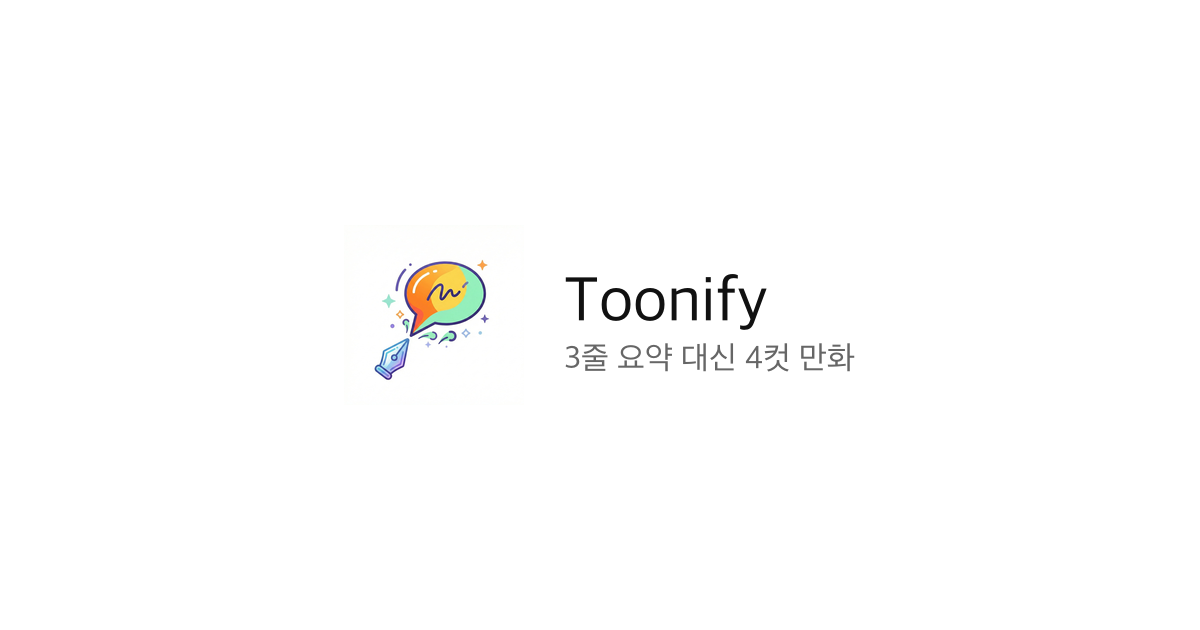
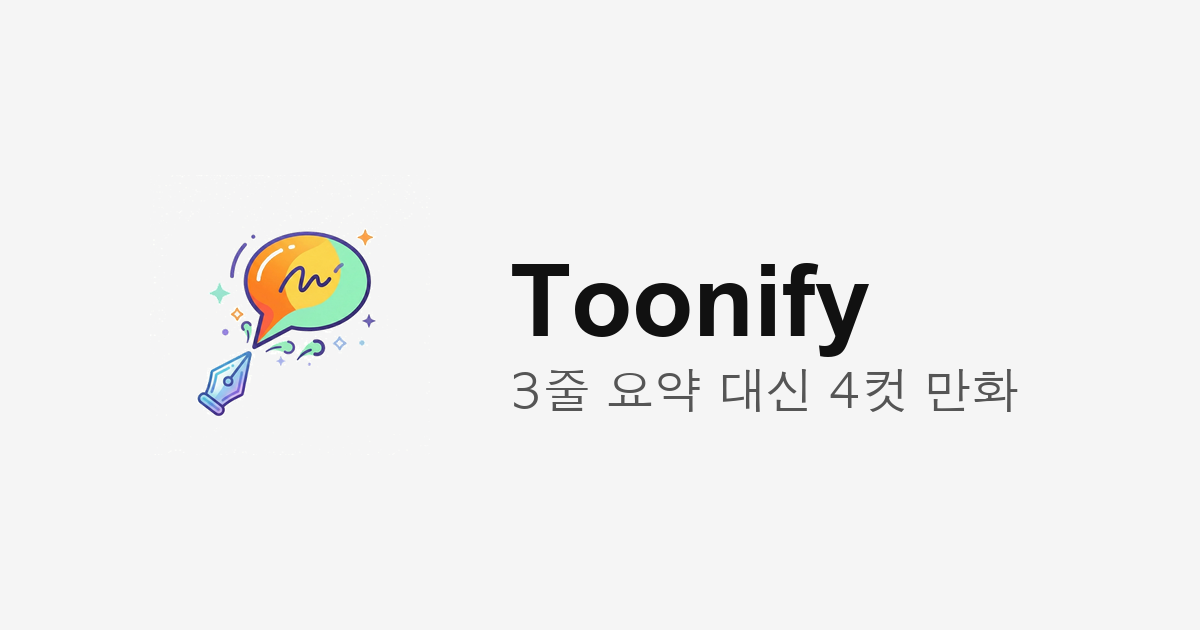
fix: 이미지수정, 문구수정

Changed region(s): [[0.1542, 0.3619, 0.8633, 0.6635]]

diff --git a/app/templates/index.html b/app/templates/index.html
@@ -8,23 +8,23 @@
     <meta name="apple-mobile-web-app-status-bar-style" content="black-translucent">
     <meta name="apple-mobile-web-app-title" content="toonify">
     <meta name="theme-color" content="#000000">
-    <meta name="description" content="텍스트를 4컷 만화로 변환하는 서비스. 카톡 대화, 회의록, 에러 로그 뭐든 넣어보세요!">
+    <meta name="description" content="4컷 만화 서비스. 카톡 대화, 회의록, 공지사항 뭐든 넣어보세요!">
 
     <!-- Open Graph (카카오톡, 페이스북 등 미리보기) -->
     <meta property="og:type" content="website">
     <meta property="og:title" content="Toonify - 3줄 요약 대신 4컷 만화">
-    <meta property="og:description" content="텍스트를 4컷 만화로 변환하는 서비스. 뭐든 넣어보세요!">
-    <meta property="og:image" content="https://toonify.kr/static/images/og-image.png">
+    <meta property="og:description" content="4컷 만화 서비스. 카톡 대화, 회의록, 공지사항 뭐든 넣어보세요!">
+    <meta property="og:image" content="https://toonify.kr/static/images/og-image.png?v=2">
     <meta property="og:url" content="https://toonify.kr">
 
     <!-- Twitter Card -->
     <meta name="twitter:card" content="summary_large_image">
     <meta name="twitter:title" content="Toonify - 3줄 요약 대신 4컷 만화">
-    <meta name="twitter:description" content="텍스트를 4컷 만화로 변환하는 서비스. 뭐든 넣어보세요!">
-    <meta name="twitter:image" content="https://toonify.kr/static/images/og-image.png">
+    <meta name="twitter:description" content="4컷 만화 서비스. 카톡 대화, 회의록, 공지사항 뭐든 넣어보세요!">
+    <meta name="twitter:image" content="https://toonify.kr/static/images/og-image.png?v=2">
 
     <title>Toonify - 3줄 요약 대신 4컷 만화</title>
-    <link rel="stylesheet" href="static/css/style.css">
+    <link rel="stylesheet" href="static/css/style.css?v=2">
     <link rel="icon" type="image/png" href="/static/images/favicon-32.png">
     <link rel="apple-touch-icon" href="/static/images/apple-touch-icon.png">
     <style>
@@ -56,7 +56,7 @@
                     id="meeting-input"
                     class="meeting-input"
                     contenteditable="true"
-                    data-placeholder="회의록, 강의노트, 카톡 대화, 에러 로그... 무엇이든 만화로 만들어 드립니다 🎨"
+                    data-placeholder="회의록, 강의노트, 카톡 대화, 공지사항, 에러 로그... 무엇이든 만화로 만들어 드립니다 🎨"
                 ></div>
                 <button type="submit">만화 생성</button>
             </form>
@@ -142,6 +142,6 @@
         </div>
     </div>
 
-    <script src="static/js/app.js"></script>
+    <script src="static/js/app.js?v=2"></script>
 </body>
 </html>

diff --git a/app/templates/result.html b/app/templates/result.html
@@ -14,17 +14,17 @@
     <meta property="og:type" content="website">
     <meta property="og:title" content="Toonify - 4컷 만화 완성!">
     <meta property="og:description" content="이 만화 어때요? Toonify에서 만들었어요!">
-    <meta property="og:image" content="https://toonify.kr/static/images/og-image.png">
+    <meta property="og:image" content="https://toonify.kr/static/images/og-image.png?v=2">
     <meta property="og:url" content="https://toonify.kr">
 
     <!-- Twitter Card -->
     <meta name="twitter:card" content="summary_large_image">
     <meta name="twitter:title" content="Toonify - 4컷 만화 완성!">
     <meta name="twitter:description" content="이 만화 어때요? Toonify에서 만들었어요!">
-    <meta name="twitter:image" content="https://toonify.kr/static/images/og-image.png">
+    <meta name="twitter:image" content="https://toonify.kr/static/images/og-image.png?v=2">
 
     <title>Toonify - 3줄 요약 대신 4컷 만화</title>
-    <link rel="stylesheet" href="/static/css/style.css">
+    <link rel="stylesheet" href="/static/css/style.css?v=2">
     <link rel="icon" type="image/png" href="/static/images/favicon-32.png">
     <link rel="apple-touch-icon" href="/static/images/apple-touch-icon.png">
     <script src="https://t1.kakaocdn.net/kakao_js_sdk/2.7.4/kakao.min.js" integrity="sha384-DKYJZ8NLiK8MN4/C5P2dtSmLQ4KwPaoqAfyA/DfmEc1VDxu4yyC7wy6K1Hs90nka" crossorigin="anonymous"></script>
@@ -186,7 +186,7 @@
                             <svg width="16" height="16" viewBox="0 0 24 24" fill="currentColor">
                                 <path d="M12 3C6.48 3 2 6.58 2 11c0 2.83 1.88 5.31 4.68 6.72l-.95 3.52c-.08.29.25.54.51.38l4.2-2.8c.5.05 1.02.08 1.56.08 5.52 0 10-3.58 10-8s-4.48-8-10-8z"/>
                             </svg>
-                            단톡방에 짤 투척
+                            카톡으로 쓱- 보내기
                         </button>
                     </div>
                 </div>
@@ -230,8 +230,8 @@
             Kakao.Share.sendDefault({
                 objectType: 'feed',
                 content: {
-                    title: 'Toonify',
-                    description: '이거 만화로 만들어봤는데 어때요?',
+                    title: '바쁜 당신을 위한 4컷 만화',
+                    description: '긴 글 읽기 귀찮으시죠? 만화로 빠르게 보세요.',
                     imageUrl: firstImageUrl,
                     link: {
                         mobileWebUrl: currentUrl,
@@ -240,7 +240,7 @@
                 },
                 buttons: [
                     {
-                        title: '만화 보기',
+                        title: '10초 만에 다 보기',
                         link: {
                             mobileWebUrl: currentUrl,
                             webUrl: currentUrl,
